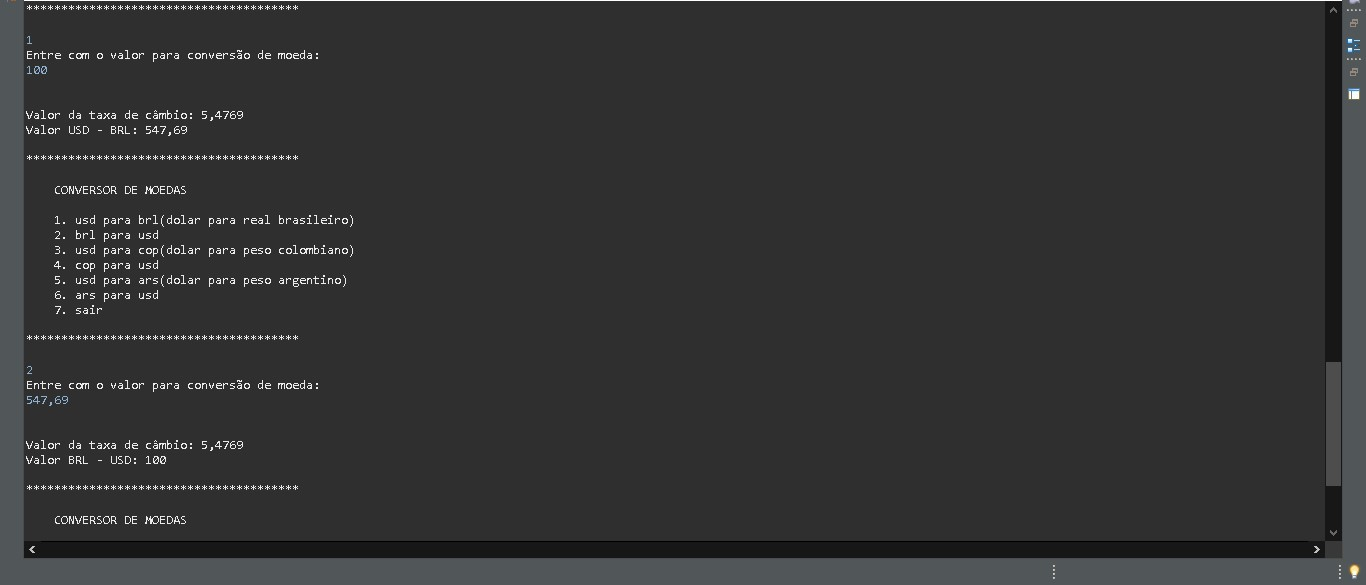
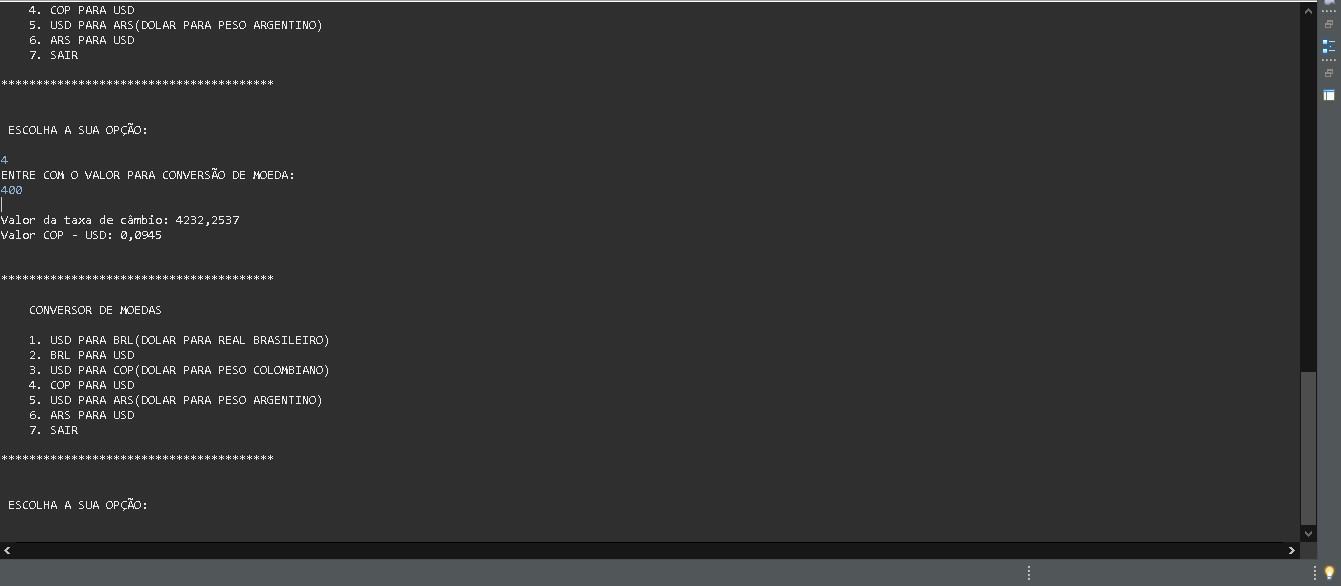
Atualização

diff --git a/com.samzubeli.ConversorDeMoedas/src/com/samzubeli/ConversorDeMoedas/principal/Principal.java b/com.samzubeli.ConversorDeMoedas/src/com/samzubeli/ConversorDeMoedas/principal/Principal.java
@@ -1,105 +1,91 @@
 package com.samzubeli.ConversorDeMoedas.principal;
 
-
-import java.util.Scanner;
-
 import com.samzubeli.ConversorDeMoedas.api.Conexao;
 import com.samzubeli.ConversorDeMoedas.api.Utilidades;
 
 public class Principal {
 
-	public static void main(String[] args) {		
-		Scanner lerEntrada = new Scanner(System.in);		
+	public static void main(String[] args) {	;
 		Conexao con = new Conexao();
 		Utilidades util = new Utilidades();
 		while (true) {
-			System.out.println("***************************************\n");
+			System.out.println("\n***************************************\n");
 			System.out.println("    conversor de moedas".toUpperCase());
 			System.out.println();
 			System.out.println("    1. usd para brl(dolar para real brasileiro)".toUpperCase());
 			System.out.println("    2. brl para usd".toUpperCase());
-			System.out.println("    3. usd para cop(dolar para peso colombiano)".toUpperCase()));
+			System.out.println("    3. usd para cop(dolar para peso colombiano)".toUpperCase());
 			System.out.println("    4. cop para usd".toUpperCase());
 			System.out.println("    5. usd para ars(dolar para peso argentino)".toUpperCase());
 			System.out.println("    6. ars para usd".toUpperCase());
 			System.out.println("    7. sair\n".toUpperCase());
-			System.out.println("***************************************\n");
-			int valor = lerEntrada.nextInt();
+			System.out.println("***************************************\n");			
+			int valor = (int) util.entradaDeValores(false);			
 			if (valor == 7)
 				break;
-			if (util.verificarEntrada(valor))
-				System.out.println("\nsomente numeros entre 1 e 7\n".toUpperCase());
-			else {
-				String key="";
-				String parMoedas="";
-				double moeda=0.0;
-				double taxaCambio=0.0;
-				
-				switch (valor) {
+			String key = "";
+			String parMoedas = "";
+			double moeda = 0.0;
+			double taxaCambio = 0.0;
 
-				case 1: 
-					key = "YOUR KEY/pair/USD/BRL";
-					parMoedas = " usd - brl: ".toUpperCase();
-					System.out.println("Entre com o valor para conversão de moeda: ");
-					moeda = lerEntrada.nextDouble();
-					taxaCambio = util.obterTaxaDeCambio(con, key);
-					moeda = moeda*taxaCambio;
-					util.imprimirValores(parMoedas, moeda, taxaCambio);
-					break;
-					
-				case 2:
-					key = "YOUR KEY/pair/USD/BRL";
-					parMoedas = " brl - usd: ".toUpperCase();
-					System.out.println("Entre com o valor para conversão de moeda: ");
-					moeda = lerEntrada.nextDouble();
-					taxaCambio = util.obterTaxaDeCambio(con, key);
-					moeda = moeda / taxaCambio;
-					util.imprimirValores(parMoedas, moeda, taxaCambio);
-					break;
-				
-				case 3: 
-					key = "YOUR KEY/pair/USD/COP";
-					parMoedas = " usd - cop: ".toUpperCase();
-					System.out.println("Entre com o valor para conversão de moeda: ");
-					moeda = lerEntrada.nextDouble();
-					taxaCambio = util.obterTaxaDeCambio(con, key);
-					moeda = moeda*taxaCambio;
-					util.imprimirValores(parMoedas, moeda, taxaCambio);
-					break;
-					
-				case 4: 
-					key = "YOUR KEY/pair/USD/COP";
-					parMoedas = " cop - usd: ".toUpperCase();
-					System.out.println("Entre com o valor para conversão de moeda: ");
-					moeda = lerEntrada.nextDouble();
-					taxaCambio = util.obterTaxaDeCambio(con, key);
-					moeda = moeda / taxaCambio;
-					util.imprimirValores(parMoedas, moeda, taxaCambio);
-					break;
-				
-				case 5: 
-					key = "YOUR KEY/pair/USD/ARS";
-					parMoedas = " usd - ars: ".toUpperCase();
-					System.out.println("Entre com o valor para conversão de moeda: ");
-					moeda = lerEntrada.nextDouble();
-					taxaCambio = util.obterTaxaDeCambio(con, key);
-					moeda = moeda*taxaCambio;
-					util.imprimirValores(parMoedas, moeda, taxaCambio);
-					break;
-				
-				case 6: 
-					key = "YOUR KEY/pair/USD/ARS";
-					parMoedas = " ars - usd: ".toUpperCase();
-					System.out.println("Entre com o valor para conversão de moeda: ");
-					moeda = lerEntrada.nextDouble();
-					taxaCambio = util.obterTaxaDeCambio(con, key);
-					moeda = moeda / taxaCambio;
-					util.imprimirValores(parMoedas, moeda, taxaCambio);
-					break;
-				}
+			switch (valor) {
+
+			case 1:
+				key = "YOUR KEY/pair/USD/BRL";
+				parMoedas = " usd - brl: ".toUpperCase();
+				moeda = util.entradaDeValores(true);				
+				taxaCambio = util.obterTaxaDeCambio(con, key);
+				moeda = moeda * taxaCambio;
+				util.imprimirValores(parMoedas, moeda, taxaCambio);
+				break;
+
+			case 2:
+				key = "YOUR KEY/pair/USD/BRL";
+				parMoedas = " brl - usd: ".toUpperCase();
+				moeda = util.entradaDeValores(true);								
+				taxaCambio = util.obterTaxaDeCambio(con, key);
+				moeda = moeda / taxaCambio;
+				util.imprimirValores(parMoedas, moeda, taxaCambio);
+				break;
+
+			case 3:
+				key = "YOUR KEY/pair/USD/COP";
+				parMoedas = " usd - cop: ".toUpperCase();
+				moeda = util.entradaDeValores(true);								
+				taxaCambio = util.obterTaxaDeCambio(con, key);
+				moeda = moeda * taxaCambio;
+				util.imprimirValores(parMoedas, moeda, taxaCambio);
+				break;
+
+			case 4:
+				key = "YOUR KEY/pair/USD/COP";
+				parMoedas = " cop - usd: ".toUpperCase();
+				moeda = util.entradaDeValores(true);								
+				taxaCambio = util.obterTaxaDeCambio(con, key);
+				moeda = moeda / taxaCambio;
+				util.imprimirValores(parMoedas, moeda, taxaCambio);
+				break;
+
+			case 5:
+				key = "YOUR KEY/pair/USD/ARS";
+				parMoedas = " usd - ars: ".toUpperCase();
+				moeda = util.entradaDeValores(true);								
+				taxaCambio = util.obterTaxaDeCambio(con, key);
+				moeda = moeda * taxaCambio;
+				util.imprimirValores(parMoedas, moeda, taxaCambio);
+				break;
+
+			case 6:
+				key = "YOUR KEY/pair/USD/ARS";
+				parMoedas = " ars - usd: ".toUpperCase();
+				moeda = util.entradaDeValores(true);								
+				taxaCambio = util.obterTaxaDeCambio(con, key);
+				moeda = moeda / taxaCambio;
+				util.imprimirValores(parMoedas, moeda, taxaCambio);
+				break;
 			}
-		}
-		lerEntrada.close();
+
+		}		
 		System.out.println("\n\n terminou seu programa".toUpperCase());
 	}
 

diff --git a/com.samzubeli.ConversorDeMoedas/src/com/samzubeli/ConversorDeMoedas/api/Utilidades.java b/com.samzubeli.ConversorDeMoedas/src/com/samzubeli/ConversorDeMoedas/api/Utilidades.java
@@ -2,28 +2,71 @@ package com.samzubeli.ConversorDeMoedas.api;
 
 import java.text.DecimalFormat;
 import java.util.Arrays;
+import java.util.InputMismatchException;
+import java.util.Scanner;
 
-public class Utilidades {
+public class Utilidades {	
 
-	public boolean verificarEntrada(int valor) {
-		if (valor > 0 & valor < 8)
-			return false;
-		return true;
-	}
-
-	public double obterTaxaDeCambio(Conexao con, String key) {
+	public double obterTaxaDeCambio(Conexao con, String key) {		
 		String bodyJson = con.conectar(key);
-		String str = bodyJson.substring(bodyJson.indexOf("{") + 1, bodyJson.lastIndexOf("}"));	
+		String str = bodyJson.substring(bodyJson.indexOf("{") + 1, bodyJson.lastIndexOf("}"));		
 		String[] array = str.split(":");
 		return Double.parseDouble(array[array.length - 1]);
-
 	}
 
 	public void imprimirValores(String parMoedas, double moeda, double taxaCambio) {
-		DecimalFormat f = new DecimalFormat("###.####");
-		System.out.println();
-		System.out.println("Valor da taxa de câmbio: " + f.format(taxaCambio));
-		System.out.println("Valor" + parMoedas + f.format(moeda));
-		System.out.println();
+		if (moeda > 0) {
+			DecimalFormat f = new DecimalFormat("###.####");
+			System.out.println();
+			System.out.println("Valor da taxa de câmbio: " + f.format(taxaCambio));
+			System.out.println("Valor" + parMoedas + f.format(moeda));
+			System.out.println();
+		}
+	}
+
+	public double entradaDeValores(boolean entrada) {
+		Scanner ler = new Scanner(System.in);
+		if (entrada) {
+			try {
+				System.out.println("Entre com o valor para conversão de moeda: ".toUpperCase());
+				double moeda = ler.nextDouble();
+				if (!(moeda > 0)) {
+					System.out.println(
+							">>>>>>>>>>>>  somente valores maiores que zero são aceitos  <<<<<<<<<<<<<"
+									.toUpperCase());
+					return 0;
+				}
+				return moeda;
+			} catch (InputMismatchException e) {
+				System.out.println();
+				System.out.println();
+				System.out.println(">>>>>>>>>>>>  somente valores numéricos são aceitos  <<<<<<<<<<<<<"
+						.toUpperCase());
+				System.out.println();
+				System.out.println();
+			}
+
+			return 0;
+		}
+
+		try {
+			System.out.println("\n escolha a sua opção: \n".toUpperCase());
+			int valor = ler.nextInt();
+			if (!(valor > 0 & valor < 8)) {
+				System.out.println(
+						"\n >>>>>>>>>>>>>  somente valores inteiros entre 1 e 7 são aceitos  <<<<<<<<<<<<<\n"
+								.toUpperCase());
+				return 0;
+			}
+			return valor;
+		} catch (InputMismatchException e) {
+			System.out.println();
+			System.out.println();
+			System.out.println(
+					">>>>>>>>>>>>  somente valores numéricos são aceitos   <<<<<<<<<<<<".toUpperCase());
+			System.out.println();
+			System.out.println();
+		}
+		return 0;
 	}
 }

diff --git a/com.samzubeli.ConversorDeMoedas/src/com/samzubeli/ConversorDeMoedas/api/Conexao.java b/com.samzubeli.ConversorDeMoedas/src/com/samzubeli/ConversorDeMoedas/api/Conexao.java
@@ -24,8 +24,7 @@ public class Conexao {
 			System.out.println("Houve um erro de comunicacao com a API WEB");
 			System.out.println(e.getMessage());
 			throw new RuntimeException(e);
-		}
-		
+		}		
 	}
 }
 
@@ -33,14 +32,13 @@ public class Conexao {
  * https://v6.exchangerate-api.com/v6/YOUR-API-KEY/pair/EUR/GBP -> devolve no
  * json a taxa de câmbio
  * 
- * EUR -> moeda base 
- * USD -> moeda alvo 
- * "YOUR-API-KEY/pair/EUR/GBP ou
+ * EUR -> moeda base USD -> moeda alvo key =
+ * "YOUR-API-KEY/pair/EUR/GBP" ou
  * "YOUR-API-KEY/pair/EUR/GBP/AMOUNT"
  * 
  * GET https://v6.exchangerate-api.com/v6/YOUR-API-KEY/pair/EUR/GBP/AMOUNT ->
  * devolve no json moeda alvo já convertida.
  * 
- * Ex: https://v6.exchangerate-api.com/v6/YOUR KEY/latest/USD ->
+ * Ex: https://v6.exchangerate-api.com/v6/YOUR-API-KEY/latest/USD ->
  * devolve todas moedas convertidas em relação ao dollar.
  */

diff --git a/com.samzubeli.ConversorDeMoedas/readme.md b/com.samzubeli.ConversorDeMoedas/readme.md
@@ -1,16 +1,43 @@
 ## Telas do Projeto  
 
-![Alt text](img/tela-1.jpg) 
-
+![Alt text](img/tela-1.jpg)   
   
 
-![Alt text](img/tela-2.jpg)  
-
+![Alt text](img/tela-2.jpg) 
    
 
-![Alt text](img/tela-3.jpg)   
-
+![Alt text](img/tela-3.jpg) 
   
 
 ![Alt text](img/tela-4.jpg)   
+ 
+
+![Alt text](img/tela-5.jpg)   
+
+
+![Alt text](img/tela-6.jpg)   
+
+
+![Alt text](img/tela-7.jpg)  
+
+
+![Alt text](img/tela-8.jpg)  
+
+
+![Alt text](img/tela-9.jpg)   
+
+
+![Alt text](img/tela-10.jpg)  
+
+
+![Alt text](img/tela-11.jpg)  
+
+
+![Alt text](img/tela-12.jpg)  
+
+
+![Alt text](img/tela-13.jpg)  
+
+
+
 
